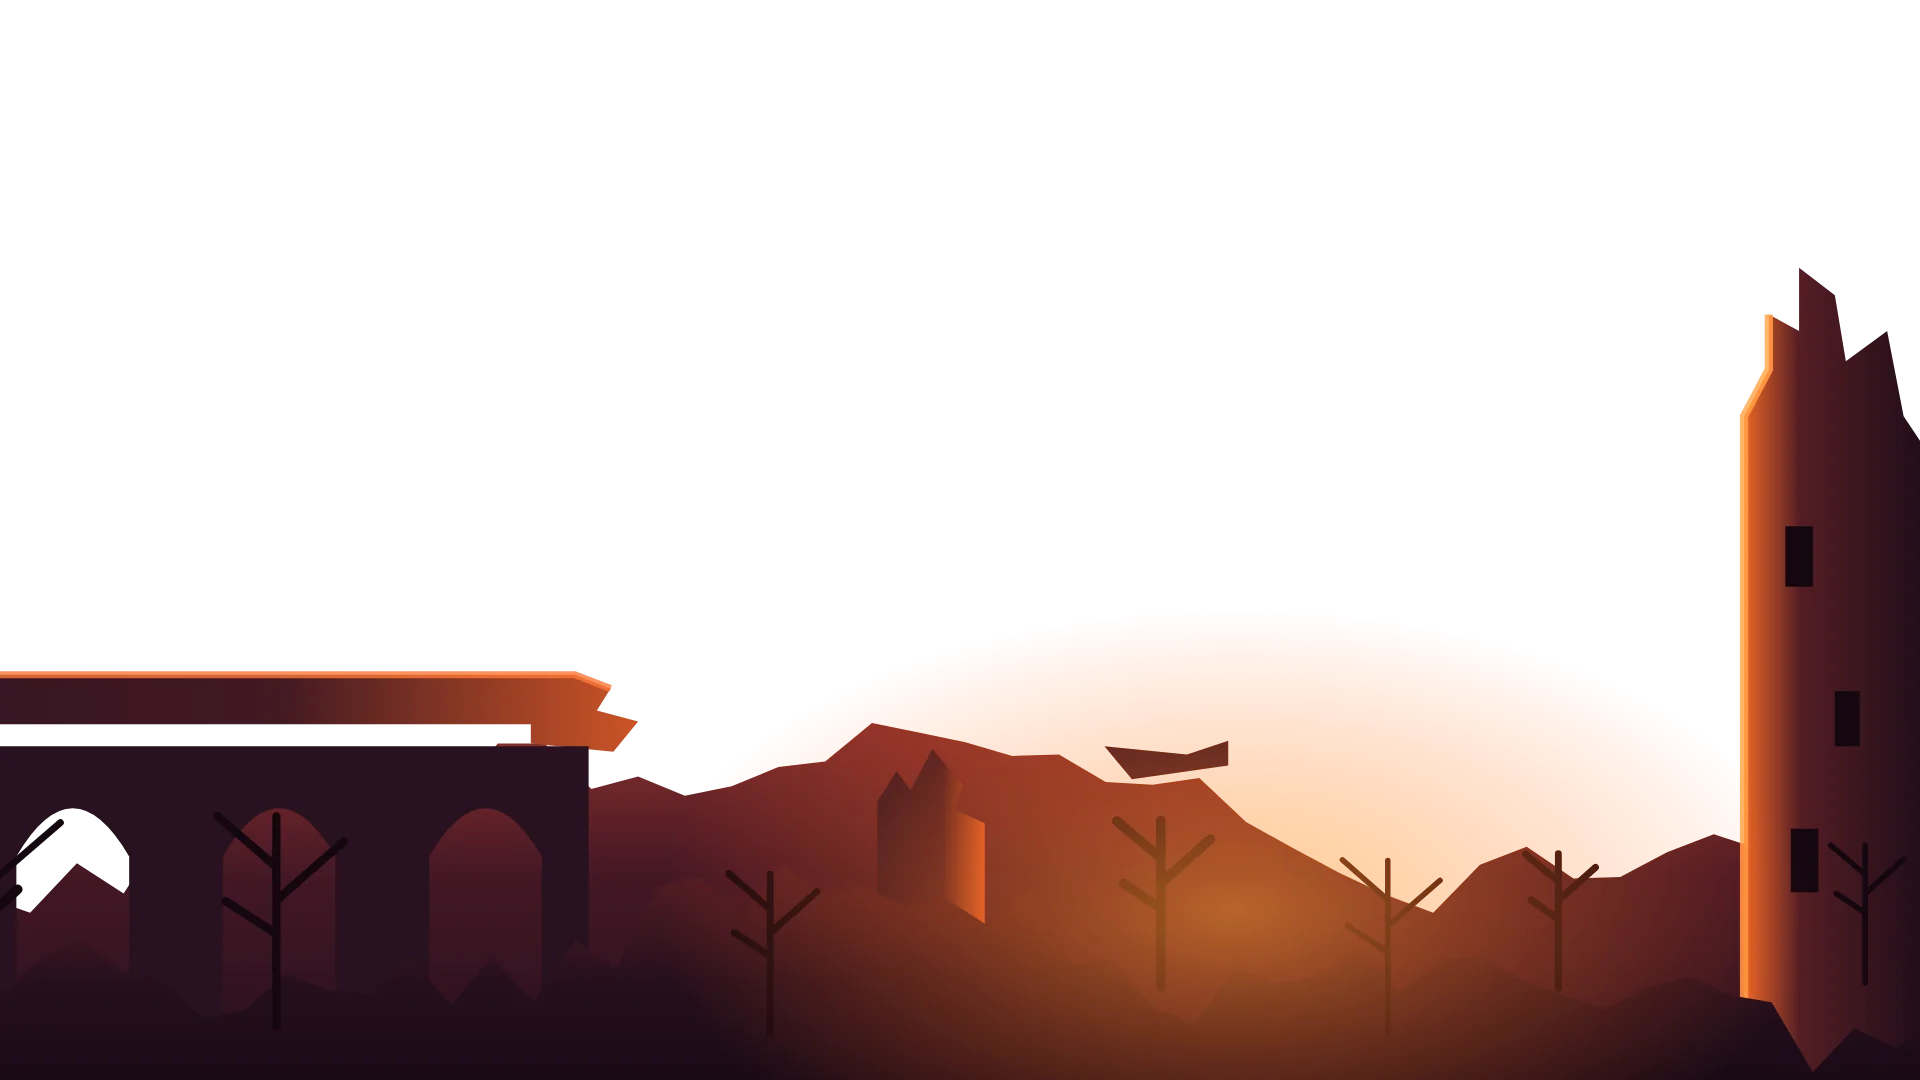
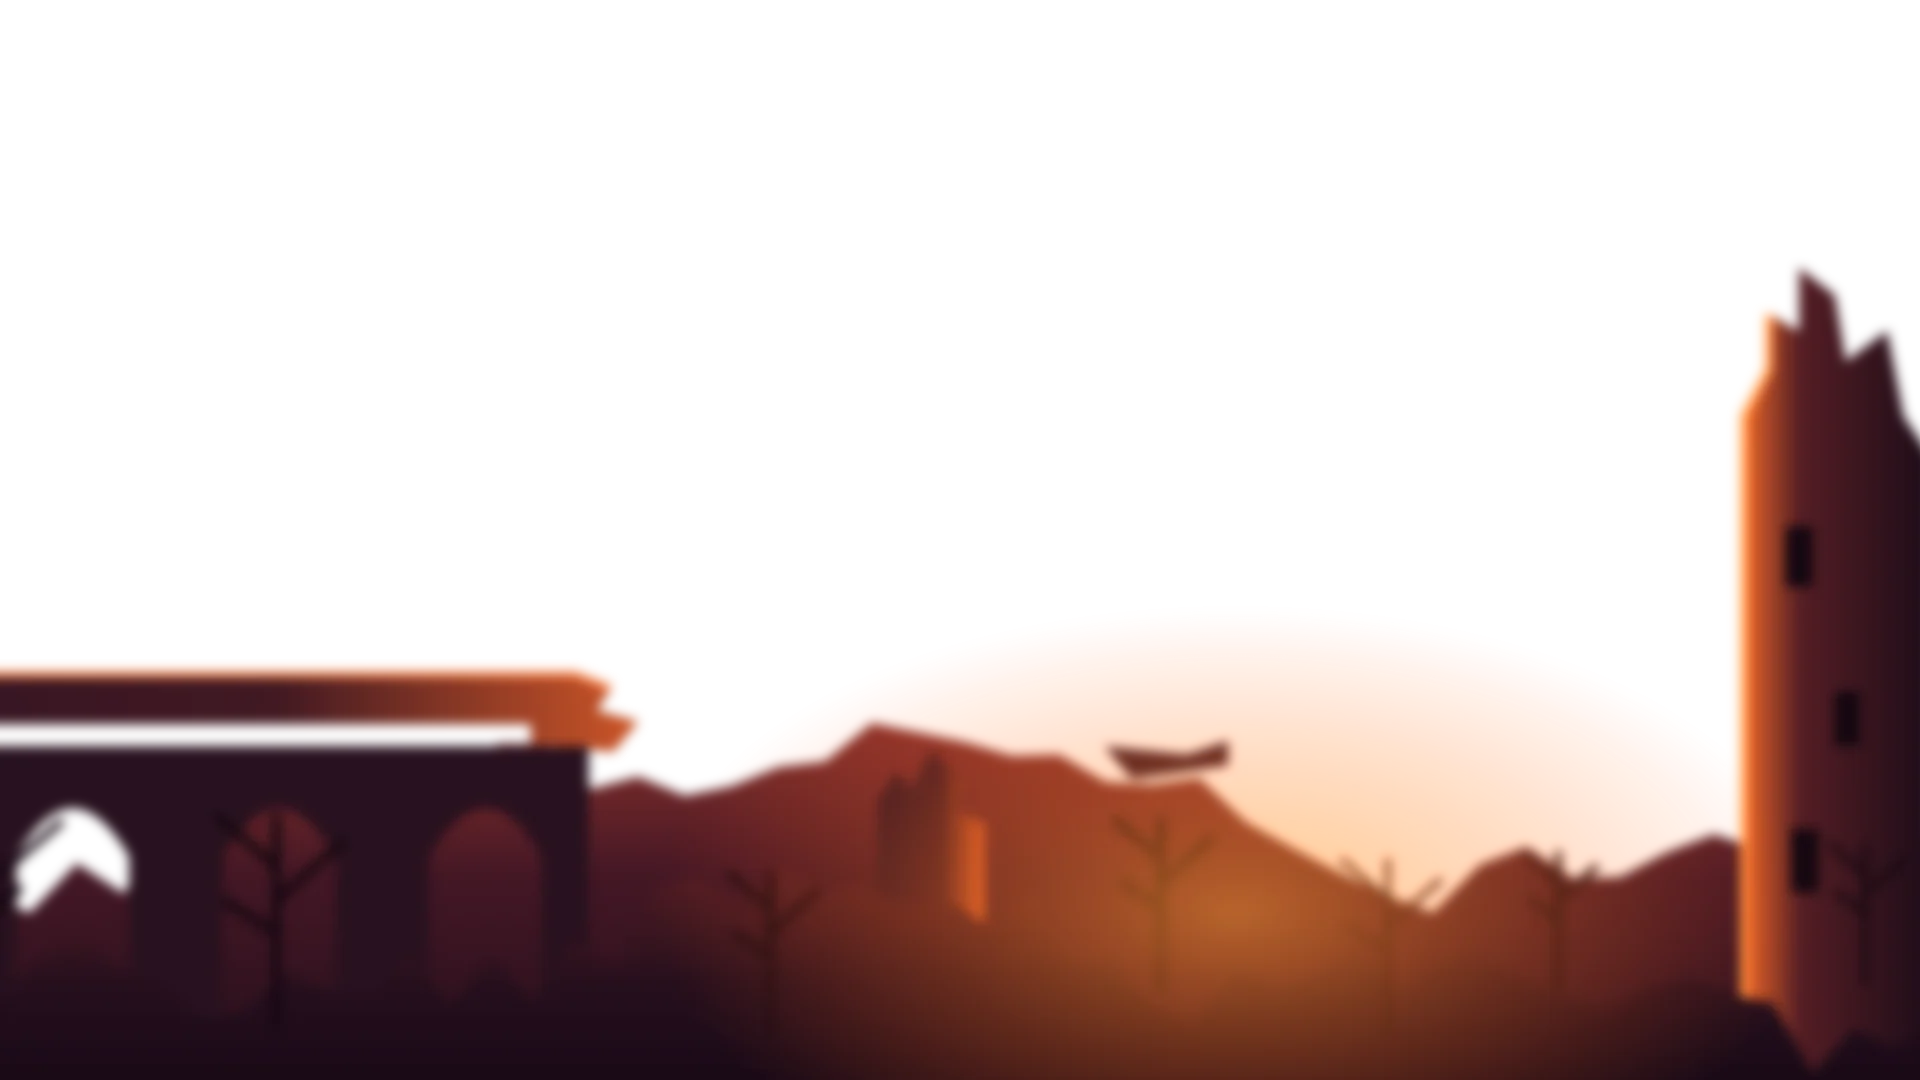
Stop sending a sign-in from the code tab back to the join page
The code tab's Sign in and I'm new links carried redirect=/join, so an
owner who reached /join (the front page's "Join with a code" link, or a
tab left open on it) and signed in from there landed on "Join a
campaign", which reads as a code being demanded. A bare /join is no
longer a post-sign-in destination; the join page with a code in hand
still is, so an account holder can use the code they came with.

The sign-in scenes keep a light blur, more the farther back, between
the old heavy blur and the near-sharp version.

Claude-Session: https://claude.ai/code/session_01CZefPjDT1Kq7uPc5g6qTXM

diff --git a/static/css/auth_doors.css b/static/css/auth_doors.css
@@ -3,10 +3,10 @@
  * (internal/templates/layouts/site_doors.templ, internal/plugins/auth).
  *
  * One floating surface panel sits over a scene that follows the open tab:
- * castle, dragon, tavern. Each scene is four drawn layers, kept sharp enough
- * to read (only the back one carries a light baked-in blur, for depth), that
- * drift sideways at different speeds; only transform and opacity ever animate. Durations come
- * from the motion tokens in input.css. Calm and Off stop every drift (the
+ * castle, dragon, tavern. Each scene is four drawn layers with a light blur
+ * baked in, more the farther back, so it reads as a dream yet stays clear
+ * enough to tell what it is. The layers drift sideways at different speeds;
+ * only transform and opacity ever animate. Durations come from the motion tokens in input.css. Calm and Off stop every drift (the
  * global rules end a keyframe animation at once and, with no fill, it falls
  * back to the resting position below); a still page or hidden tab pauses it.
  */

diff --git a/internal/plugins/auth/auth_doors_test.go b/internal/plugins/auth/auth_doors_test.go
@@ -72,8 +72,15 @@ func TestDoorTabsKeepTheRedirect(t *testing.T) {
 }
 
 func TestJoinDoorCarriesTheJoinRedirect(t *testing.T) {
+	// With no code, signing in from the code tab is just signing in: the
+	// owner must not land back on "Join a campaign".
 	html := renderDoor(t, JoinPage("tok", "", "", "", ""))
-	if !strings.Contains(html, `href="/login?redirect=%2Fjoin"`) || !strings.Contains(html, `href="/register?redirect=%2Fjoin"`) {
-		t.Errorf("signing in from the code tab should come back to /join: %s", html)
+	if strings.Contains(html, `redirect=%2Fjoin`) {
+		t.Errorf("a bare join page must not send sign-ins back to /join: %s", html)
+	}
+	// With a code in hand, an account holder comes back to use it.
+	html = renderDoor(t, JoinPage("tok", "ABCD-2345", "", "", ""))
+	if !strings.Contains(html, `href="/login?redirect=%2Fjoin%3Fcode%3DABCD-2345"`) || !strings.Contains(html, `href="/register?redirect=%2Fjoin%3Fcode%3DABCD-2345"`) {
+		t.Errorf("signing in with a code in hand should come back to it: %s", html)
 	}
 }

diff --git a/internal/plugins/auth/sanitize_redirect_test.go b/internal/plugins/auth/sanitize_redirect_test.go
@@ -21,6 +21,10 @@ func TestSanitizeRedirect(t *testing.T) {
 		{"del byte", "/a\x7fb", ""},
 		{"backslash later", "/a\\b", ""},
 		{"unparseable", "/%zz", ""},
+		{"bare join page", "/join", ""},
+		{"join page with empty code", "/join?code=", ""},
+		{"join page with a code", "/join?code=ABCD-2345", "/join?code=ABCD-2345"},
+		{"campaign share link", "/join/abc123", "/join/abc123"},
 	}
 	for _, tt := range tests {
 		t.Run(tt.name, func(t *testing.T) {

diff --git a/internal/plugins/auth/handler.go b/internal/plugins/auth/handler.go
@@ -42,6 +42,12 @@ func sanitizeRedirect(raw string) string {
 	if err != nil || u.Scheme != "" || u.Host != "" {
 		return ""
 	}
+	// The join page with no code in hand is not somewhere to come back to:
+	// someone who signs in from the code tab means to sign in, and landing
+	// on "Join a campaign" afterwards reads as a code being demanded.
+	if u.Path == joinHref && u.Query().Get("code") == "" {
+		return ""
+	}
 	return raw
 }
 

diff --git a/.ai/ui-standard.md b/.ai/ui-standard.md
@@ -537,8 +537,8 @@ second; the dice settle in under 480ms.
   *I have a code* are tabs (`/login`, `/register`, `/join` each open their
   own) on one floating panel with no box around the form. Nothing hangs from
   these tabs, so the open one is underlined in the accent with no side line.
-  A painted scene, sharp enough to tell what it is (only its back layer is
-  softened), sits behind it and follows the tab (castle, dragon, tavern); its
+  A painted scene, softly blurred (more the farther back) but clear enough to
+  tell what it is, sits behind it and follows the tab (castle, dragon, tavern); its
   four layers drift on `--dur-ambient` and hold still under Calm
   and Off. A site admin's picture or colours replace the scenes, and a saved
   plain look shows the panel on the page colour
